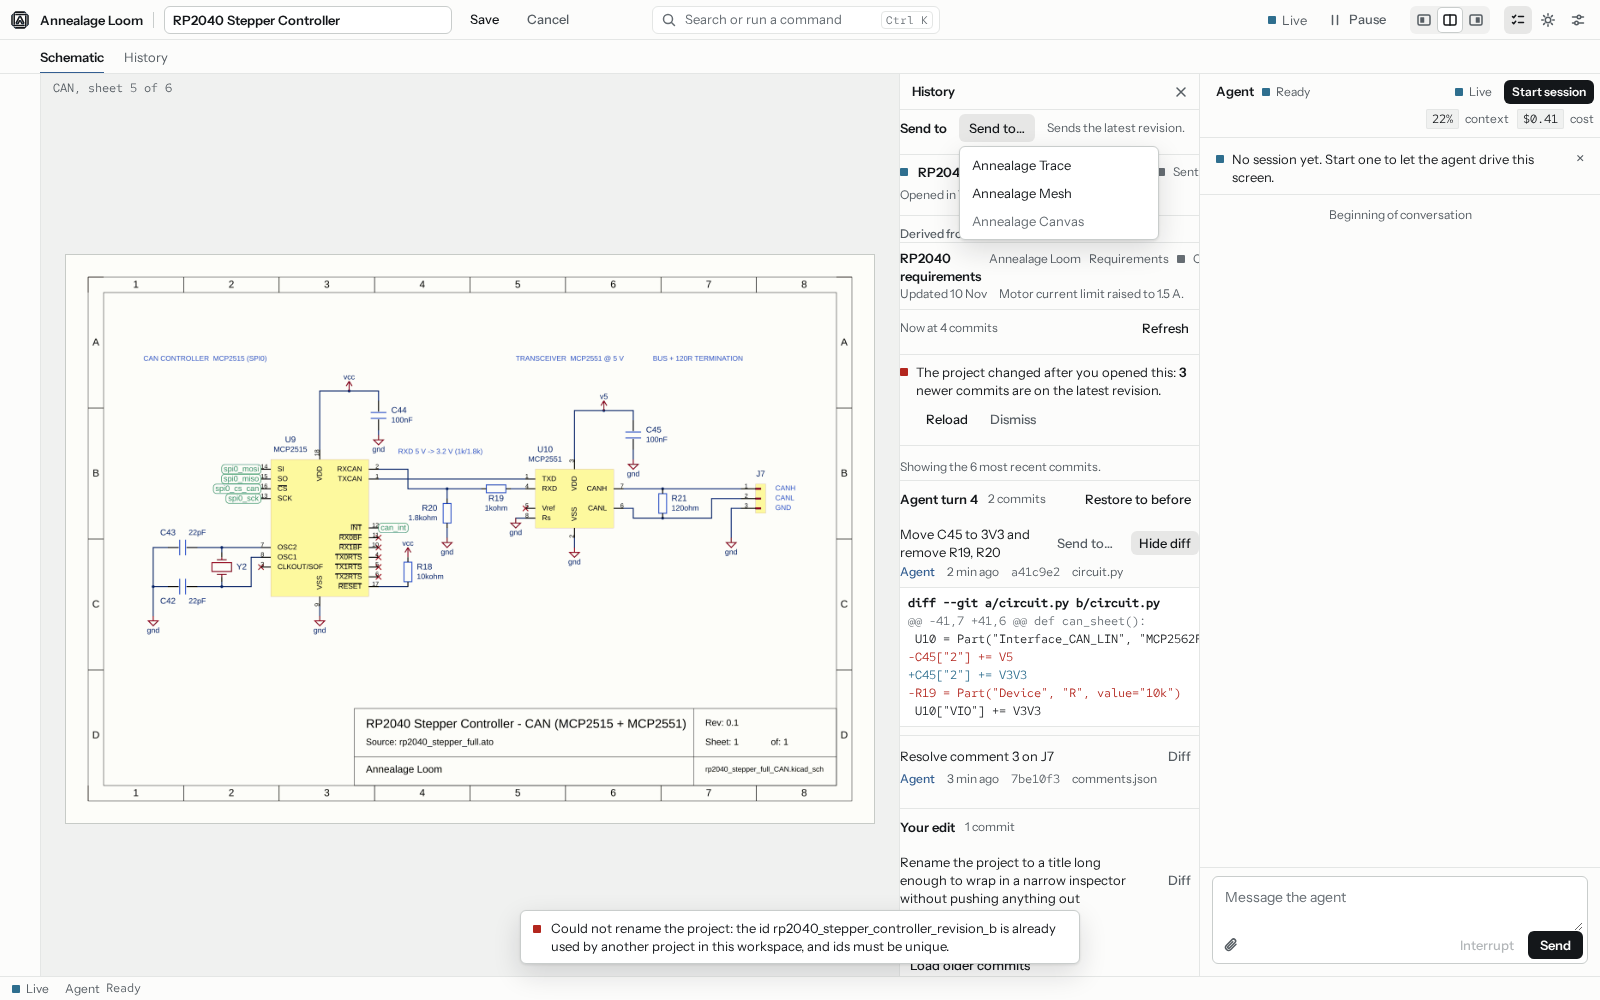
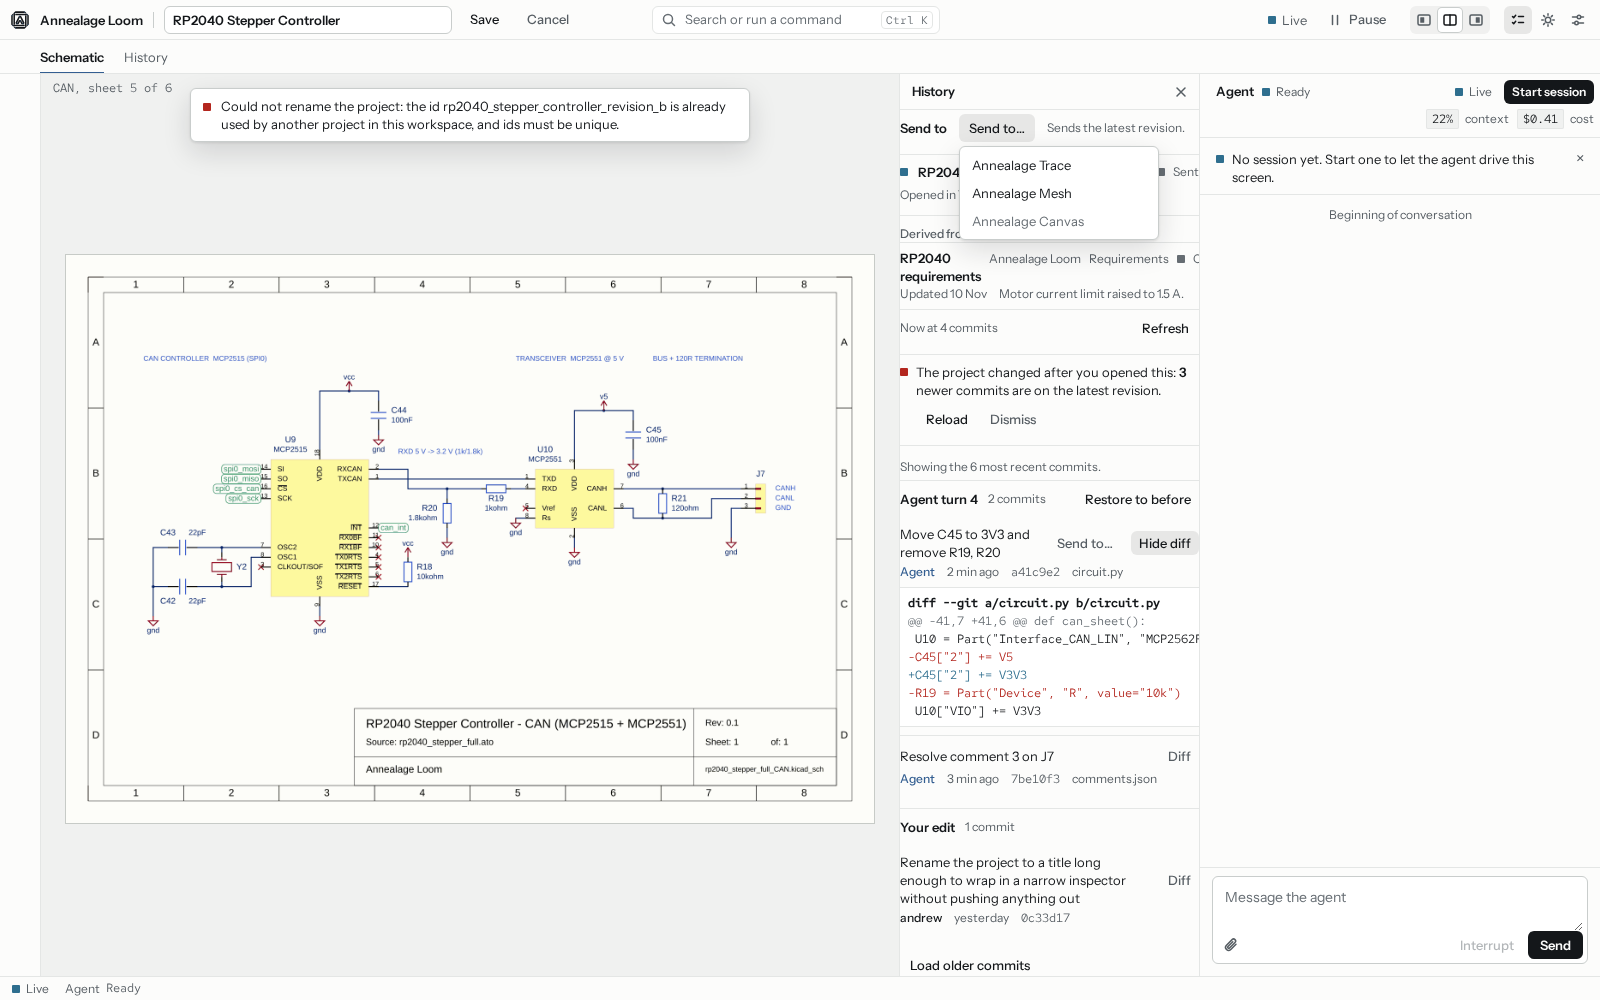
Toast and error line hang at the top of the view, clear of the bottom controls.

Changed region(s): [[0.125, 0.093, 0.4375, 0.155], [0.3438, 0.899, 0.6562, 0.961]]

diff --git a/frame.js b/frame.js
@@ -41,6 +41,11 @@
 //                                 shown only at 900px and below)
 //   reset()                       forget the stored settings and go back to the markup's
 //   destroy()
+// The floating messages #toast and #err sit outside .wb, so frame.js mirrors what
+// theme.css places them by onto <html>, after each change and when the view or the
+// error line resizes: --view-l and --view-r (px from the window's left and right edge to
+// the view column; absent at 900px and below and while the view is hidden, as in the Agent
+// layout) and --err-stack (px the error line takes, with its gap, or 0).
 // A "framechange" event fires on .wb, detail {layout, insp, chat, panelOpen,
 // activeTab} (and split on a page that has one), after each change, so a canvas
 // or WebGL view can resize.
@@ -151,6 +156,7 @@
       return s;
     }
     function emit() {
+      placeNotices();
       root.dispatchEvent(new win.CustomEvent("framechange", { bubbles: true, detail: snapshot() }));
     }
     function persist() {
@@ -158,6 +164,32 @@
       COLUMNS.forEach(function (c) { if (pref[c.key] != null) rec[c.key] = pref[c.key]; });
       if (pref.split != null) rec.split = pref.split;
       write(storage, KEY, JSON.stringify(rec));
+    }
+
+    // ---- The floating messages
+
+    // #toast and #err are outside .wb, so the theme cannot read the grid: mirror the view column's
+    // edges and the error line's height onto <html> for it.
+    var NOTICE_GAP = 8; // between the error line and the toast under it
+    function placeNotices() {
+      var html = doc.documentElement;
+      if (!html || !html.style) return;
+      var view = root.querySelector(".view");
+      var r = !isNarrow() && view ? view.getBoundingClientRect() : null;
+      if (r && r.width > 0) {
+        html.style.setProperty("--view-l", Math.round(r.left) + "px");
+        html.style.setProperty("--view-r", Math.round((html.clientWidth || win.innerWidth || 0) - r.right) + "px");
+      } else {
+        html.style.removeProperty("--view-l");
+        html.style.removeProperty("--view-r");
+      }
+      var err = doc.querySelector("#err");
+      html.style.setProperty("--err-stack", (err && err.offsetHeight > 0 ? err.offsetHeight + NOTICE_GAP : 0) + "px");
+    }
+    function forgetNotices() {
+      var html = doc.documentElement;
+      if (!html || !html.style) return;
+      ["--view-l", "--view-r", "--err-stack"].forEach(function (k) { html.style.removeProperty(k); });
     }
 
     // ---- Layout focus
@@ -513,6 +545,8 @@
       root.removeEventListener("click", onClick);
       win.removeEventListener("resize", onResize);
       mq.removeEventListener("change", onNarrow);
+      if (watch) watch.disconnect();
+      forgetNotices();
       grips.forEach(function (g) { g.el.remove(); });
       grips = [];
       if (splitGrip) splitGrip.remove();
@@ -550,6 +584,9 @@
     win.addEventListener("resize", onResize);
     mq.addEventListener("change", onNarrow);
     fit();
+    placeNotices();
+    var watch = win.ResizeObserver ? new win.ResizeObserver(placeNotices) : null;
+    if (watch) [root.querySelector(".view"), doc.querySelector("#err")].forEach(function (el) { if (el) watch.observe(el); });
 
     var api = {
       root: root,

diff --git a/theme.css b/theme.css
@@ -479,20 +479,30 @@ summary { cursor: pointer; }
    #err (class ok or err on the toast). They float, so they have the menu's
    edge and shadow, and a lamp like any message: quench for ok, danger for an
    error. ui.js sets display inline, so the lamp is positioned, not a grid
-   column. The toast sits above the status bar. The error line hangs under the
-   title bar and the row under it (the view tabs or the pane heads), so it covers
-   no control of the frame; at 900px and below, where those rows are the title
-   bar and the tab bar, it sits above the toast instead. A product does not
-   place either. */
+   column. A product places neither. Both hang at the top of the view, under
+   the title bar and the row under it (the view tabs or the pane heads): the
+   bottom edge holds controls (the inspector's footer, the composer, a sheet's
+   tabs) and each phone tab has a different one. The error line comes first and
+   the toast under it, so both can show at once; frame.js mirrors the error
+   line's height and gap onto <html> as --err-stack (0 without it). Above 900px
+   they are centred over the view column, so the inspector's and the agent's
+   heads stay clear: frame.js mirrors the column's edges as --view-l and
+   --view-r (0 without it, the whole window). The Agent layout has no view
+   column and takes the window. At 900px and below the title bar, the tab bar
+   and the pane head are above them, and they span the window. */
+html { --notice-top: calc(var(--h-bar) + var(--h-pane) + var(--s-3)); }
 html #toast, html #err {
-  position: fixed; z-index: 60; left: var(--s-3); right: var(--s-3); bottom: calc(var(--h-status) + var(--s-3));
+  position: fixed; z-index: 60; top: var(--notice-top); left: calc(var(--view-l, 0px) + var(--s-3)); right: calc(var(--view-r, 0px) + var(--s-3));
   width: fit-content; max-width: 560px; margin-inline: auto; padding: 8px 12px 8px 30px;
   border: 1px solid var(--rule-strong); border-radius: var(--r);
   background: var(--field); box-shadow: var(--shadow-menu); color: var(--ink);
   font-size: var(--fs-ui); line-height: var(--lh-ui); white-space: pre-wrap; overflow-wrap: anywhere;
 }
-html #err { top: calc(var(--h-bar) + var(--h-pane) + var(--s-3)); bottom: auto; }
-@media (max-width: 900px) { html #err { top: auto; bottom: calc(var(--h-status) + var(--ctl) + 2 * var(--s-3) + var(--s-2)); } }
+html #toast { top: calc(var(--notice-top) + var(--err-stack, 0px)); }
+@media (max-width: 900px) {
+  html { --notice-top: calc(var(--h-bar) + 40px + var(--h-pane) + var(--s-3)); }
+  html #toast, html #err { left: var(--s-3); right: var(--s-3); }
+}
 html #toast::before, html #err::before {
   content: ""; position: absolute; left: 12px; top: 14px; width: 8px; height: 8px; border-radius: 1px; background: var(--ink-3);
 }

diff --git a/demo/demo.js b/demo/demo.js
@@ -164,6 +164,15 @@ const wb = document.querySelector(".wb");
 if (wb && q.get("preview")) wb.dataset.preview = "";
 // ?cmd=none: a title bar without the command field (its right-hand controls stay at the right edge).
 if (q.get("cmd") === "none") document.querySelector(".titlebar > .cmd")?.remove();
+// ?toast=ok|err shows the floating toast and ?err=1 the error line over any workbench (#toast and #err are
+// outside .wb, as a product's ui.js writes them); both together show them stacked.
+const floating = (id, role) => document.getElementById(id) || body.appendChild(Object.assign(document.createElement("div"), { id, role }));
+if (q.get("toast") === "ok" || q.get("toast") === "err") {
+  const toast = floating("toast", "status");
+  toast.className = q.get("toast");
+  toast.textContent = q.get("toast") === "ok" ? "Submitted 2 pins" : "Could not submit: sign in again";
+}
+if (q.get("err") === "1") floating("err", "alert").textContent = "Couldn't pause the agent. The harness answered with an error.";
 for (const box of $$("[data-indeterminate]")) box.indeterminate = true;
 for (const s of $$(".swatch[data-c]")) s.style.background = s.dataset.c;
 

diff --git a/README.md b/README.md
@@ -63,7 +63,7 @@ Load `frame.js` as a classic script at the end of `<body>`. With `data-auto` (`<
 
 It keeps two settings in `localStorage` per origin and per product (`<html data-product>`, else `platform`), and only after the user changes something: `annealage.frame.<product>` (`{layout, insp, chat}`, and `split` on a page that has a split view) and `annealage.frame.<product>.panel` (`"open"` or `"closed"`). The widths are written as `--insp-w-user` and `--chat-w-user` on `.wb`, which the theme reads while that column is open, and the split as `--split-user` (a percentage); with nothing stored no property is written, so a product's own `--insp-w`, `--chat-w` and `--split` stay the defaults.
 
-`annealageFrame(options)` returns, and keeps as `annealageFrame.current`: `layout()`, `setLayout(v)`, `widths()` and `setWidths({insp, chat})` (pixels, or `null` for the theme's default; clamped), `split()` and `setSplit(f)` (the first half's share, 0.2 to 0.8, or `null`; always `null` on a page with no split view), `panelOpen()`, `setPanelOpen(b)`, `isNarrow()`, `activeTab()`, `activateTab(id)`, `reset()` (removes both stored keys and goes back to the markup) and `destroy()`. A `framechange` event fires on `.wb` after each change, detail `{layout, insp, chat, panelOpen, activeTab}` (plus `split` on a page that has a split view): a canvas or WebGL view resizes on it. Options are `root`, `storage`, `product` and `tabs`. `inert`, focus rescue and `visualViewport` handling stay with the product.
+`annealageFrame(options)` returns, and keeps as `annealageFrame.current`: `layout()`, `setLayout(v)`, `widths()` and `setWidths({insp, chat})` (pixels, or `null` for the theme's default; clamped), `split()` and `setSplit(f)` (the first half's share, 0.2 to 0.8, or `null`; always `null` on a page with no split view), `panelOpen()`, `setPanelOpen(b)`, `isNarrow()`, `activeTab()`, `activateTab(id)`, `reset()` (removes both stored keys and goes back to the markup) and `destroy()`. A `framechange` event fires on `.wb` after each change, detail `{layout, insp, chat, panelOpen, activeTab}` (plus `split` on a page that has a split view): a canvas or WebGL view resizes on it. It also writes `--view-l`, `--view-r` and `--err-stack` on `<html>` for the floating `#toast` and `#err` (see Agent pane and settings), after each change and when the view or `#err` resizes. Options are `root`, `storage`, `product` and `tabs`. `inert`, focus rescue and `visualViewport` handling stay with the product.
 
 ### The account menu
 
@@ -256,7 +256,7 @@ Each component's markup is in the comment above its rules.
 **Agent pane and settings** (annealage-ember's markup)
 - `#chat` with its header (`.agentstatus`, `.chatwho`, `.chatusage`, `.working`, `.conn`, `.hdrbtn`, `details.more`), `.chatbanner[data-kind]`, `#chatLog` (`.turn`, `.msg.user`, `.msg.assistant`, `.msg.action`, `.segments`, `.text`, `details.thinking`, `details.toolgroup`, `details.toolcard`, `pre.toolinput`, `pre.toolresult`, `.turnerrors`, `.chathistory`, `.attachthumbs`, `.contextchip`), `.side`, `.chathint`, `#chatPending` with `.permcard`, and `#chatComposer` (`.chatmodelrow`, `.attachstrip`, `.attachchip`, `#chatComposerRow`, `.attachbtn`, `#chatInput`, `.chatbtns`). A disabled `#chatInput` (a viewer-only run) takes the composer's field tone away and greys Attach, as a disabled field does.
 - `.modal` (a `div` or a `<dialog class="modal">`, closed one hidden; the dialog's backdrop is not drawn, `.modal` paints the scrim; `.toolcard` single-line rows read as in `#chat`) and `.setpanel` with `.setwarn`, `.setbody`, `.setrow` (two side by side in a `.setpair`, one column on a phone), `.setlabel`, `.setinput`, `.setnote`, `.sethelp`, `.diagrow`, `.logrow`, `.logtail`, `.loginflow`.
-- `#toast` (class `ok` or `err`) and `#err`, which ember's `ui.js` writes: a floating message row with a lamp. The theme places both and a product does not: the toast above the status bar, the error line under the title bar and the row under it (`--h-bar` plus `--h-pane`), and at 900px and below the error line above the toast.
+- `#toast` (class `ok` or `err`) and `#err`, which ember's `ui.js` writes: a floating message row with a lamp. The theme places both and a product does not: both hang at the top, under the title bar and the row under it (`--h-bar` plus `--h-pane`; at 900px and below also the 40px tab bar), the error line first and the toast under it, so they never overlap and never cover the bottom controls (the inspector's footer, the composer, a sheet's tabs, the status bar). Above 900px they are centred over the view column; `frame.js` mirrors its edges onto `<html>` as `--view-l` and `--view-r` and the error line's height and gap as `--err-stack`, and without it they centre over the whole window. In the Agent layout and at 900px and below they span the window. `?toast=ok|err` and `?err=1` show them on any demo workbench.
 - The project views `project.js` builds, all `pj-*` classes: `.pj-header`, `.pj-history`, `.pj-lineage`, `.pj-projects` and the `.pj-modal` dialog. The theme draws their look and layout; `demo/ember.html` shows them under ember's real `agent.css`.
 
 **Review** (a product that runs a review rather than a chat)

diff --git a/GUIDE.md b/GUIDE.md
@@ -145,6 +145,7 @@ For working on a design with a drawing or model.
 - Body: tool rail 40px, the well with the drawing, inspector 300px, agent 400px. Inspector and agent each close with one click and the drawing takes the space.
 - Sheet or document tabs, cursor and zoom sit on the well's bottom edge.
 - Status bar (24px): connection, what the agent is doing, the ember alert if there is one, then the document's figures at the right.
+- Floating messages (`#toast`, `#err`): a failure with no row of its own to sit by, or a short confirmation. They hang at the top of the view, under the first rows, the error line first and the toast under it, centred over the view column (the window in the Agent layout and at 900px and below); never at the bottom, where the inspector's footer, the composer, the sheet tabs and the status bar are. The theme places them and `frame.js` tells it where the view column is; a product does not.
 
 A workbench of files (Canvas, [demo/workbench.html?product=canvas](demo/workbench.html?product=canvas)) is the same frame turned: the file tree is the inspector, at the left (`data-insp="left"`), there is no rail, and the view is a split of two halves, the editor and the screen, with a handle between them. There is no window-wide tab row. The tree's head, each half's head (the file tabs, the screen's actions) and the agent header are one height (36px), so their hairlines meet across the window. The 40px line is the tree's own gutter: its title and its names start on it, and with the tree closed the file tabs do. A file tab holds the name, an unsaved lamp and a close button. File names are the user's own files, so they are data and set in mono in the tree, the tabs and the title; folder names too. The editor is raised (`--field`, it takes input), the screen is the well.
 
